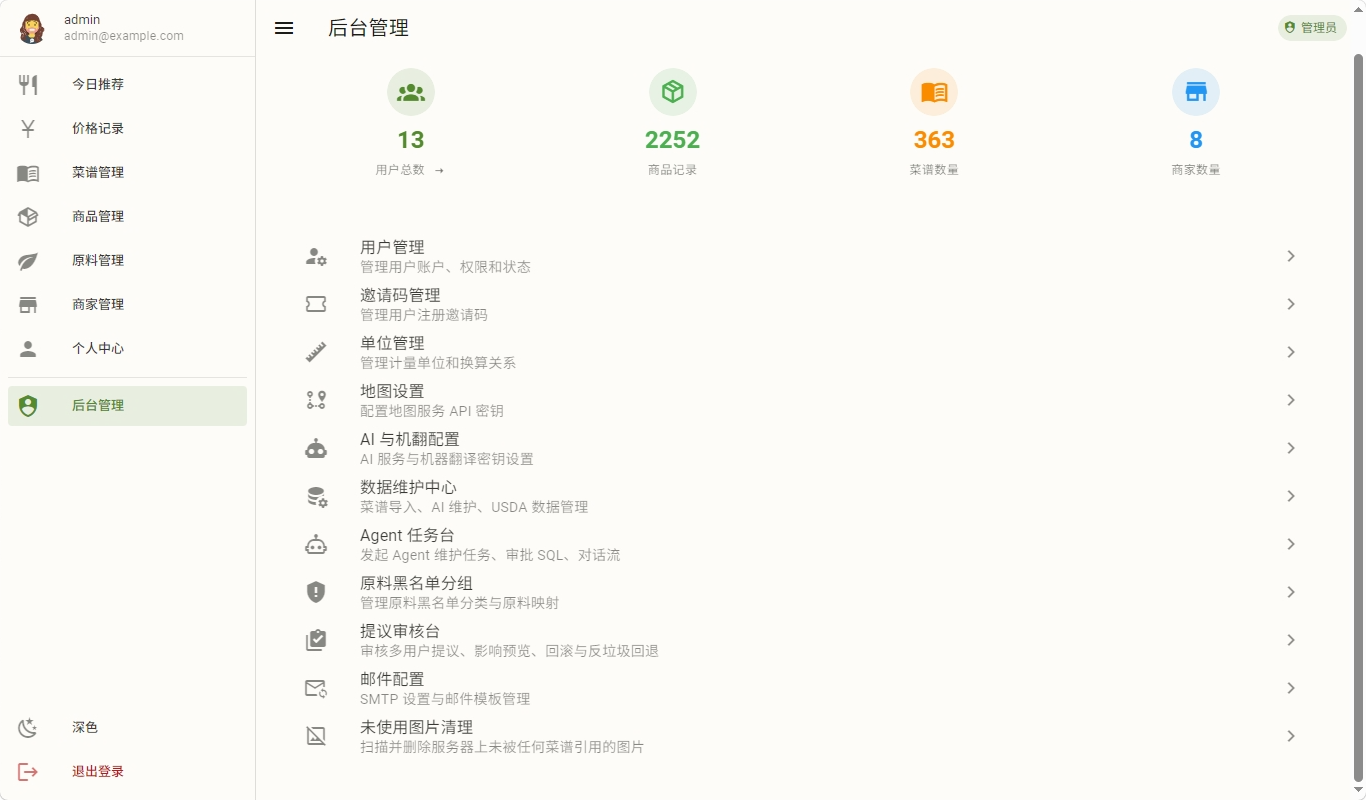
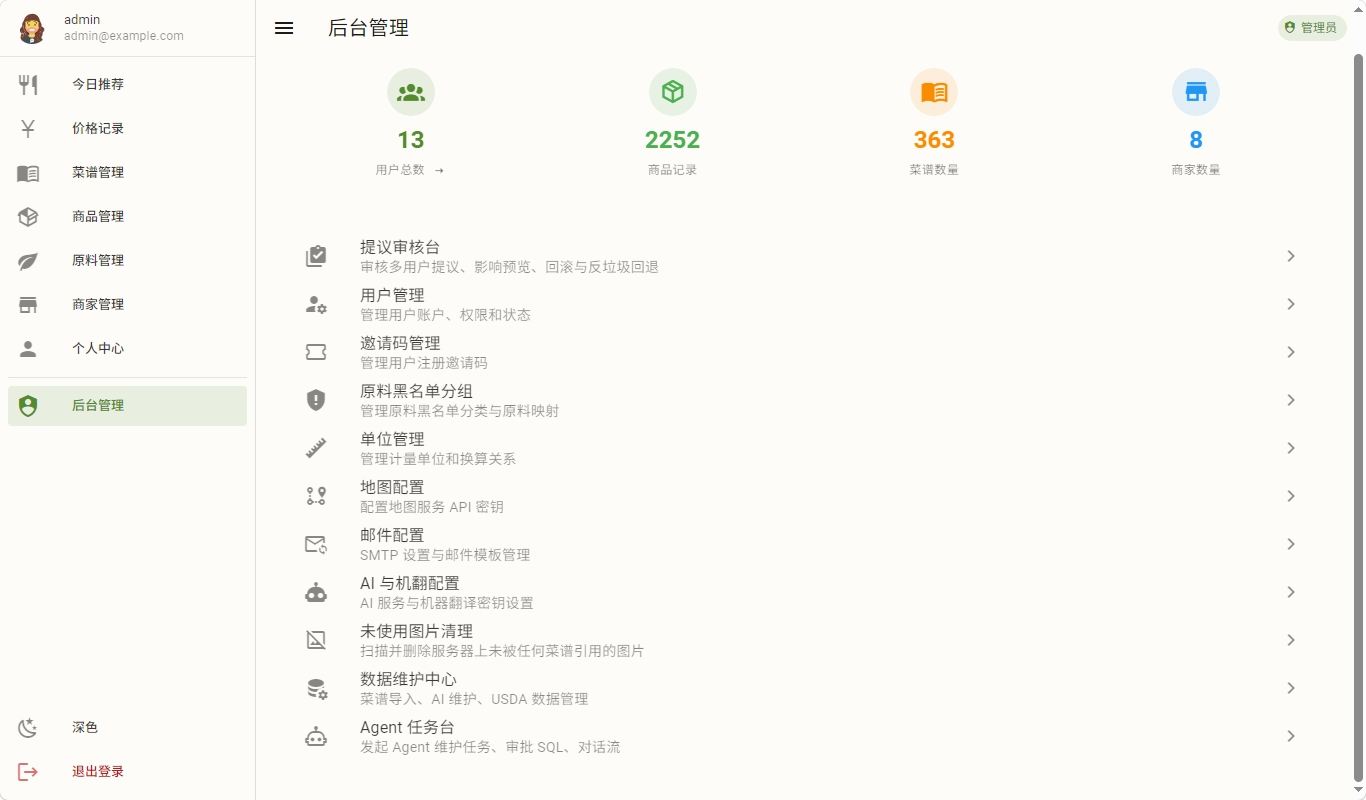
后台管理各项顺序；修改文档

Changed region(s): [[0.2152, 0.2812, 0.4919, 0.9375], [0.2152, 0.375, 0.246, 0.4062]]

diff --git a/frontend/src/views/admin/AdminDashboard.vue b/frontend/src/views/admin/AdminDashboard.vue
@@ -79,6 +79,17 @@
     <v-card class="ma-4" elevation="0">
       <v-list>
         <v-list-item
+          prepend-icon="mdi-clipboard-check-multiple"
+          title="提议审核台"
+          subtitle="审核多用户提议、影响预览、回滚与反垃圾回退"
+          to="/admin/proposals"
+        >
+          <template #append>
+            <v-icon>mdi-chevron-right</v-icon>
+          </template>
+        </v-list-item>
+
+        <v-list-item
           prepend-icon="mdi-account-cog"
           title="用户管理"
           subtitle="管理用户账户、权限和状态"
@@ -101,6 +112,17 @@
         </v-list-item>
 
         <v-list-item
+          prepend-icon="mdi-shield-alert"
+          title="原料黑名单分组"
+          subtitle="管理原料黑名单分类与原料映射"
+          to="/admin/blacklist-groups"
+        >
+          <template #append>
+            <v-icon>mdi-chevron-right</v-icon>
+          </template>
+        </v-list-item>
+
+        <v-list-item
           prepend-icon="mdi-ruler"
           title="单位管理"
           subtitle="管理计量单位和换算关系"
@@ -113,9 +135,20 @@
 
         <v-list-item
           prepend-icon="mdi-map-marker-path"
-          title="地图设置"
+          title="地图配置"
           subtitle="配置地图服务 API 密钥"
           to="/admin/map-settings"
+        >
+          <template #append>
+            <v-icon>mdi-chevron-right</v-icon>
+          </template>
+        </v-list-item>
+
+        <v-list-item
+          prepend-icon="mdi-email-sync-outline"
+          title="邮件配置"
+          subtitle="SMTP 设置与邮件模板管理"
+          to="/admin/email-config"
         >
           <template #append>
             <v-icon>mdi-chevron-right</v-icon>
@@ -127,6 +160,17 @@
           title="AI 与机翻配置"
           subtitle="AI 服务与机器翻译密钥设置"
           to="/admin/ai-config"
+        >
+          <template #append>
+            <v-icon>mdi-chevron-right</v-icon>
+          </template>
+        </v-list-item>
+
+        <v-list-item
+          prepend-icon="mdi-image-off-outline"
+          title="未使用图片清理"
+          subtitle="扫描并删除服务器上未被任何菜谱引用的图片"
+          to="/admin/images-unused"
         >
           <template #append>
             <v-icon>mdi-chevron-right</v-icon>
@@ -149,50 +193,6 @@
           title="Agent 任务台"
           subtitle="发起 Agent 维护任务、审批 SQL、对话流"
           to="/admin/agent-console"
-        >
-          <template #append>
-            <v-icon>mdi-chevron-right</v-icon>
-          </template>
-        </v-list-item>
-
-        <v-list-item
-          prepend-icon="mdi-shield-alert"
-          title="原料黑名单分组"
-          subtitle="管理原料黑名单分类与原料映射"
-          to="/admin/blacklist-groups"
-        >
-          <template #append>
-            <v-icon>mdi-chevron-right</v-icon>
-          </template>
-        </v-list-item>
-
-        <v-list-item
-          prepend-icon="mdi-clipboard-check-multiple"
-          title="提议审核台"
-          subtitle="审核多用户提议、影响预览、回滚与反垃圾回退"
-          to="/admin/proposals"
-        >
-          <template #append>
-            <v-icon>mdi-chevron-right</v-icon>
-          </template>
-        </v-list-item>
-
-        <v-list-item
-          prepend-icon="mdi-email-sync-outline"
-          title="邮件配置"
-          subtitle="SMTP 设置与邮件模板管理"
-          to="/admin/email-config"
-        >
-          <template #append>
-            <v-icon>mdi-chevron-right</v-icon>
-          </template>
-        </v-list-item>
-
-        <v-list-item
-          prepend-icon="mdi-image-off-outline"
-          title="未使用图片清理"
-          subtitle="扫描并删除服务器上未被任何菜谱引用的图片"
-          to="/admin/images-unused"
         >
           <template #append>
             <v-icon>mdi-chevron-right</v-icon>

diff --git a/frontend/src/components/blacklist/BlacklistDialog.vue b/frontend/src/components/blacklist/BlacklistDialog.vue
@@ -10,14 +10,13 @@
         <!-- 快速选择：原料黑名单分组（订阅/取消订阅） -->
         <div v-if="blacklistGroups.length > 0" class="mb-4">
           <div class="text-caption text-medium-emphasis mb-2">快速选择</div>
-          <v-chip-group>
+          <v-chip-group column>
             <v-chip
               v-for="group in blacklistGroups"
               :key="group.id"
               :color="isGroupSubscribed(group.id) ? 'primary' : undefined"
               :variant="isGroupSubscribed(group.id) ? 'tonal' : 'outlined'"
               size="small"
-              filter
               @click="toggleGroup(group.id)"
             >
               {{ group.name }}
@@ -85,24 +84,28 @@
         <div v-else-if="manualBlacklistItems.length === 0" class="text-center pa-4 text-medium-emphasis">
           暂无手动添加的原料
         </div>
-        <v-list v-else density="compact">
-          <v-list-item
+        <div v-else class="d-flex flex-wrap">
+          <v-tooltip
             v-for="item in manualBlacklistItems"
             :key="item.id"
-            :title="item.ingredient_name"
-            :subtitle="item.reason || ''"
+            :text="item.reason || ''"
+            :disabled="!item.reason"
+            location="top"
           >
-            <template #append>
-              <v-btn
-                icon="mdi-close"
-                variant="text"
+            <template #activator="{ props }">
+              <v-chip
+                v-bind="props"
+                closable
                 size="small"
-                color="error"
-                @click="removeItem(item)"
-              />
+                class="mr-1 mb-1"
+                label
+                @click:close="removeItem(item)"
+              >
+                {{ item.ingredient_name }}
+              </v-chip>
             </template>
-          </v-list-item>
-        </v-list>
+          </v-tooltip>
+        </div>
       </v-card-text>
     </v-card>
 

diff --git a/docs/admin/admin-pages.md b/docs/admin/admin-pages.md
@@ -1,0 +1,105 @@
+# 后台管理
+
+![后台管理总页面](../img/admin_desktop.png)
+
+管理员账号登录后，能够看到该页面。
+
+## 提议审核台
+
+详见 [提议审核台](review.md)
+
+## 用户管理
+
+![用户管理](../img/admin_user_desktop.png)
+
+用户列表能看到所有用户（用户名、邮箱、角色、状态）。
+
+### 新增与编辑用户
+
+![新增用户](../img/admin_user_add.jpeg)
+
+![编辑用户](../img/admin_user_edit.jpeg)
+
+可改用户名、邮箱、角色（管理员/普通）、启用/禁用等。
+
+在用户列表能够失效用户、设置用户为管理员，或者进行逆向操作。注意：
+
+- 不能失效自己、取消自己的管理员权限
+- 不能失效第一个账号、取消第一个账号的管理员权限
+
+#### 重置密码
+
+![重置密码](../img/admin_user_reset_password.jpeg)
+
+编辑表单旁有"**重置密码**"按钮，点开独立对话框，输两次新密码。
+
+重置后该用户在**所有设备上的登录立即失效**（基于 `token_version` 机制：改密码时版本 +1，旧 token 全部作废）。
+
+> 改密码作废 token 是安全设计——密码泄露后重置即可让盗号者掉线。
+
+## 邀请码管理
+
+![邀请码管理](../img/admin_invite_code_desktop.png)
+
+该页面能够开关邀请码功能，以及管理邀请码。
+
+“开启邀请码注册机制”开关控制注册是否需要邀请码。
+
+邀请码列表能够查看邀请码及其使用情况、创建、过期时间。
+
+![创建邀请码](../img/admin_invite_code_add.jpeg)
+
+创建、编辑邀请码时，可以定义最大使用次数、过期时间。留空表示不限次数 / 不过期。
+
+创建邀请码时，如果邀请码文本留空，则随机生成邀请码。
+
+
+## 原料黑名单分组
+
+![原料黑名单分组](../img/admin_blacklist_group_list.png)
+
+系统默认按 **GB 7718 的 13 类过敏原**预设了过敏原分组（含麸质、甲壳纲、鱼类、花生、大豆、奶、坚果等），每个分组映射了一批原料。
+
+- 在过敏原管理里勾选你要避开的分组
+- 推荐会**屏蔽**包含这些原料的菜谱
+- 如果你后来收紧了黑名单，已有的推荐会重新过滤
+
+## 单位管理
+
+单位是共享数据（功能说明见 [单位与密度](../units-density.md)）。单位管理页：
+
+- **标准单位**（千克、克、斤、升、毫升、个等基准单位）→ **受保护**，不可删、不可改基准换算（动基准会破坏所有历史数据）
+- **普通单位**：可新增、修改换算关系、删除
+- **能量单位**（kcal / kJ）属于**用户级偏好**（见 [个人中心](../profile.md#单位偏好)），不在单位管理里——每个用户自己选
+
+改/删单位走提议-审核（管理员直写立即生效）。详见 [提议审核台](review.md)。
+
+> 单位的换算关系（如 1 斤 = 500 克）维护在单位表里，全系统统一。
+
+## 地图配置
+
+生计兼容多种地图引擎（见 [商家与地图](../merchants-map.md#地图引擎)）。地图配置在这里统一管理：
+
+- **各引擎 API 密钥**：高德 / 百度（GL）/ 腾讯 / 天地图 / OpenStreetMap 各填各的
+- **默认引擎**：选一个作为系统默认
+- **持久化**：配置存数据库，重启不丢
+
+> 高德地图、百度地图、腾讯地图，填写相关密钥后，即可使用其官方 SDK；否则，系统使用其瓦片地图（模糊，且更新不及时）。天地图必须使用 API 密钥。
+>
+> 改完保存即生效，用户刷新页面就用新配置。地图引擎的坐标系差异由系统内部统一处理，配置时只管填密钥。
+
+## 邮件配置
+
+## AI 与机翻配置
+
+- **AI provider**：Claude Code / OpenAI / Anthropic（三个面板）
+- **机翻 provider**：百度 / 阿里云 / DeepL（三个面板）
+- 每个 provider 一张卡片，填 API 密钥等，统一保存
+
+> 配置改完保存即生效，不用重启。
+
+## 未使用图片清理
+
+## 数据维护中心
+
+## Agent 任务台

diff --git a/docs/admin/README.md b/docs/admin/README.md
@@ -2,22 +2,12 @@
 
 这部分文档面向**系统管理员**——负责部署运维、或日常后台管理的人。
 
-## 部署运维
-
 | 主题 | 内容 |
 |---|---|
 | [部署](deploy.md) | 安装（uv + npm）、数据库、首次启动、生产部署 |
 | [配置与首次启动](config-init.md) | 环境变量逐项详解、首次启动的数据导入 |
 | [升级与备份](upgrade-backup.md) | 升级流程、备份恢复、日志与排障 |
-
-## 后台管理
-
-| 主题 | 内容 |
-|---|---|
-| [提议审核台](review.md) | 提议-审核框架、审核操作、反级联回滚 |
-| [Agent 任务台](agent.md) | Agent 维护任务台、SQL 守卫、插话与审批 |
-| [数据维护中心](data-maintenance.md) | 数据维护中心、USDA 下载上传、AI 与机翻配置 |
-| [用户/单位/地图](users-units-map.md) | 用户与邀请码、单位管理、地图引擎配置 |
+| [后台管理](admin-pages.md) | 后台管理页面的详细介绍 |
 
 ## 管理员特权
 

diff --git a/docs/profile.md b/docs/profile.md
@@ -18,6 +18,8 @@
 
 ## 我的提议
 
+这个页面展示的是自己发起的提议，也就是需要管理员审核的修改。
+
 ## 饮食偏好
 
 ![饮食偏好](img/profile_pref.jpeg)
@@ -44,11 +46,13 @@
 
 ## 原料黑名单
 
-系统按 **GB 7718 的 13 类过敏原**预设了过敏原分组（含麸质、甲壳纲、鱼类、花生、大豆、奶、坚果等），每个分组映射了一批原料。
+![原料黑名单](img/profile_blacklist.jpeg)
 
-- 在过敏原管理里勾选你要避开的分组
-- 推荐会**屏蔽**包含这些原料的菜谱
-- 如果你后来收紧了黑名单，已有的推荐会重新过滤
+这里可以设置你不想看到的原料。添加某项原料后，该原料、原料下属的商品、包含该原料的菜谱均不可在对应的列表中可见，菜谱也不会推荐给你。但不影响详情的查看。
+
+你可以选择单个的原料，也可以选择分组，一次性添加多个原料。
+
+分组由管理员维护。管理员可以参考 [后台管理 - 原料黑名单分组](admin/admin-pages.md#原料黑名单分组)。
 
 ## 数据导出
 

diff --git a/docs/admin/data-maintenance.md b/docs/admin/data-maintenance.md
@@ -44,15 +44,9 @@ USDA FoodData Central 是营养数据的来源（见 [营养分析](../nutrition
 
 > 注意：强制重推在 Agent 路径下有几个历史 bug 已修（指令清晰、传 force、行数护栏放宽），但仍建议先用小批量试。
 
-## AI 与机翻配置
-
 合并的配置页 `/admin/ai-config`（原 AI 配置 + 机翻配置两页合一）：
 
-- **AI provider**：Claude Code / OpenAI / Anthropic（三个面板）
-- **机翻 provider**：百度 / 阿里云 / DeepL（三个面板）
-- 每个 provider 一张卡片，填 API 密钥等，统一保存
-
-> 配置改完保存即生效，不用重启。USDA 数据页已并入数据维护中心，不再单独存在。
+USDA 数据页已并入数据维护中心，不再单独存在。
 
 ## 任务列表
 